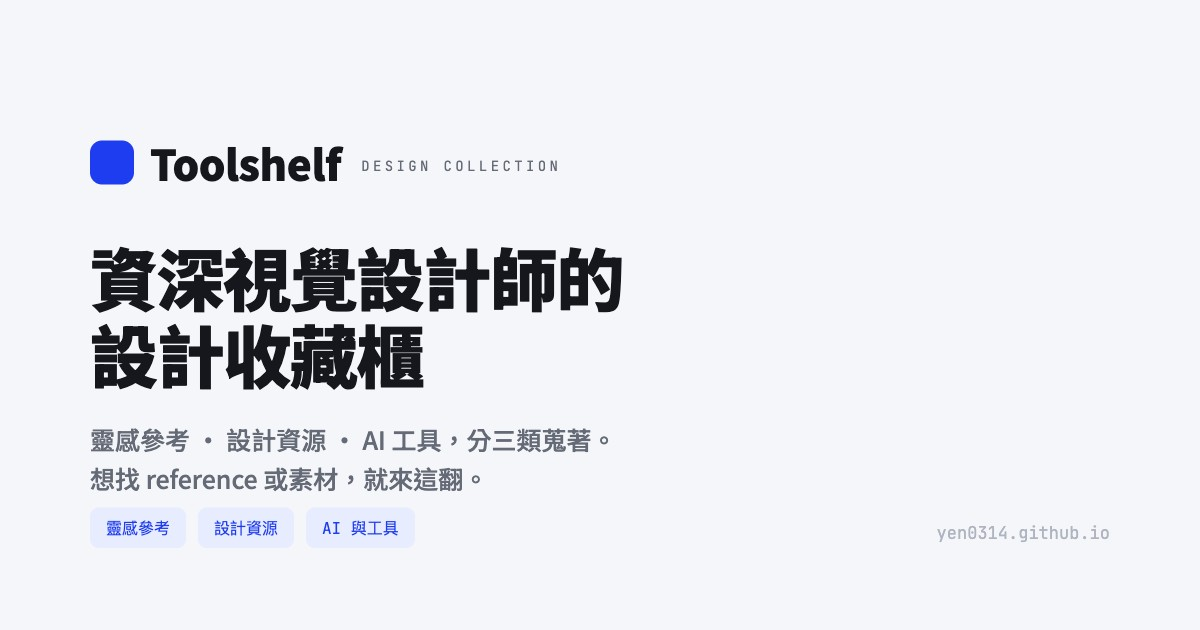
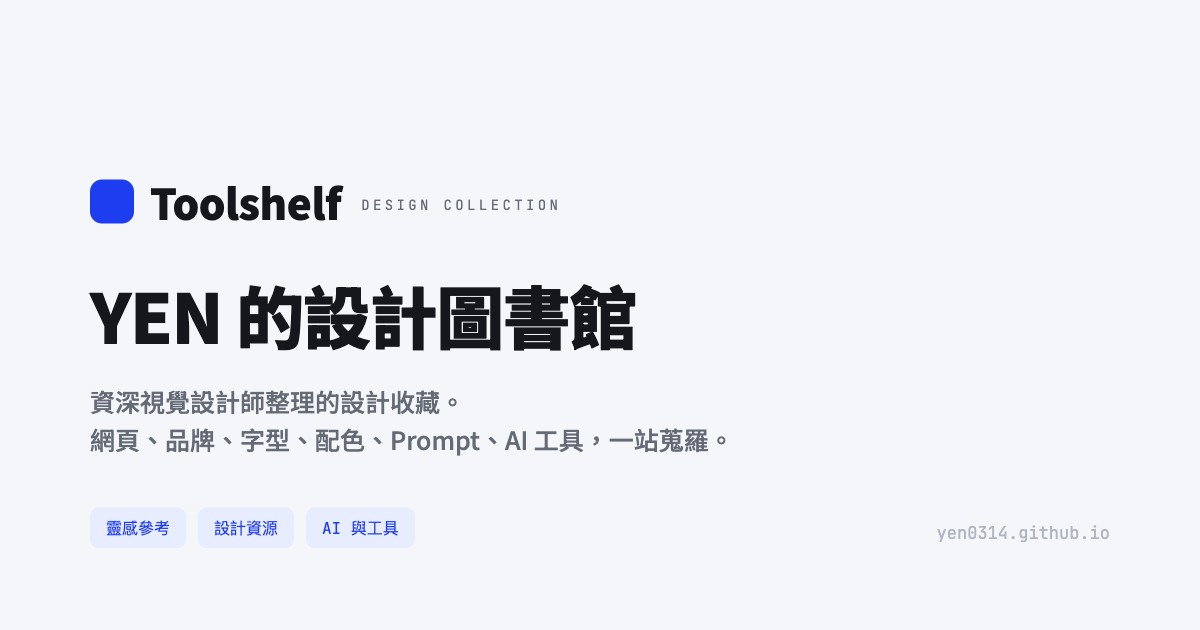
分享標題改為 YEN的設計圖書館、描述改用 B 版、更新分享縮圖

Changed region(s): [[0.0617, 0.3921, 0.6167, 0.7841], [0.0617, 0.2111, 0.4625, 0.3619]]

diff --git a/index.html b/index.html
@@ -3,18 +3,18 @@
 <head>
 <meta charset="UTF-8">
 <meta name="viewport" content="width=device-width, initial-scale=1.0">
-<title>Toolshelf · Yen 的設計收藏櫃</title>
-<meta name="description" content="一個視覺設計師平常在用的書籤庫。靈感參考、設計資源、AI 工具，分三類蒐著，想找 reference 或素材就來這翻。">
+<title>YEN的設計圖書館</title>
+<meta name="description" content="資深視覺設計師整理的設計收藏，網頁、品牌、字型、配色、Prompt、AI 工具一站蒐羅。">
 <meta property="og:type" content="website">
 <meta property="og:url" content="https://yen0314.github.io/">
-<meta property="og:title" content="Toolshelf · Yen 的設計收藏櫃">
-<meta property="og:description" content="一個視覺設計師平常在用的書籤庫。靈感參考、設計資源、AI 工具，分三類蒐著，想找 reference 或素材就來這翻。">
+<meta property="og:title" content="YEN的設計圖書館">
+<meta property="og:description" content="資深視覺設計師整理的設計收藏，網頁、品牌、字型、配色、Prompt、AI 工具一站蒐羅。">
 <meta property="og:image" content="https://yen0314.github.io/og.jpg">
 <meta property="og:image:width" content="1200">
 <meta property="og:image:height" content="630">
 <meta name="twitter:card" content="summary_large_image">
-<meta name="twitter:title" content="Toolshelf · Yen 的設計收藏櫃">
-<meta name="twitter:description" content="一個視覺設計師平常在用的書籤庫。靈感參考、設計資源、AI 工具，分三類蒐著，想找 reference 或素材就來這翻。">
+<meta name="twitter:title" content="YEN的設計圖書館">
+<meta name="twitter:description" content="資深視覺設計師整理的設計收藏，網頁、品牌、字型、配色、Prompt、AI 工具一站蒐羅。">
 <meta name="twitter:image" content="https://yen0314.github.io/og.jpg">
 <link rel="preconnect" href="https://fonts.googleapis.com">
 <link rel="preconnect" href="https://fonts.gstatic.com" crossorigin>